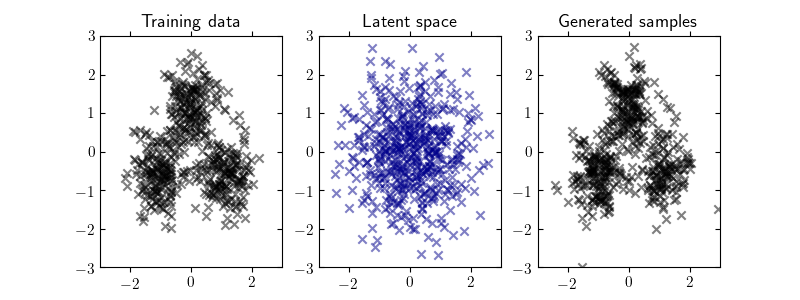
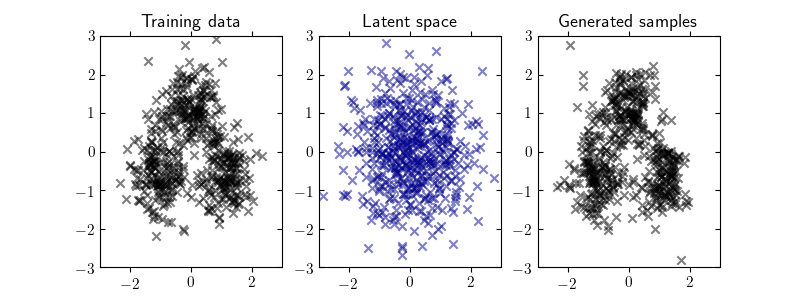
Add ActNorm.

diff --git a/examples/flow_2d.py b/examples/flow_2d.py
@@ -40,6 +40,7 @@ if __name__ == "__main__":
     argparser.add_argument("--iterations", default=500, type=int)
     argparser.add_argument("--use-mixture", action="store_true")
     argparser.add_argument("--convolve", action="store_true")
+    argparser.add_argument("--actnorm", action="store_true")
     args = argparser.parse_args()
 
     logging.basicConfig(level=logging.DEBUG)
@@ -50,6 +51,9 @@ if __name__ == "__main__":
     if args.convolve:
         convs = [OneByOneConv(dim=2) for _ in range(args.flows)]
         flows = list(itertools.chain(*zip(convs, flows)))
+    if args.actnorm:
+        actnorms = [ActNorm(dim=2) for _ in range(args.flows)]
+        flows = list(itertools.chain(*zip(actnorms, flows)))
     prior = MultivariateNormal(torch.zeros(2), torch.eye(2))
     model = NormalizingFlowModel(prior, flows)
 

diff --git a/nf/flows.py b/nf/flows.py
@@ -202,6 +202,29 @@ class MAF(nn.Module):
         return x, log_det
 
 
+class ActNorm(nn.Module):
+    """
+    ActNorm layer.
+
+    [Kingma and Dhariwal, 2018.]
+    """
+    def __init__(self, dim):
+        super().__init__()
+        self.dim = dim
+        self.mu = nn.Parameter(torch.zeros(dim, dtype = torch.float))
+        self.log_sigma = nn.Parameter(torch.zeros(dim, dtype = torch.float))
+
+    def forward(self, x):
+        z = x * torch.exp(self.log_sigma) + self.mu
+        log_det = torch.sum(self.log_sigma)
+        return z, log_det
+
+    def backward(self, z):
+        x = (z - self.mu) / torch.exp(self.log_sigma)
+        log_det = -torch.sum(self.log_sigma)
+        return x, log_det
+
+
 class OneByOneConv(nn.Module):
     """
     Invertible 1x1 convolution.
